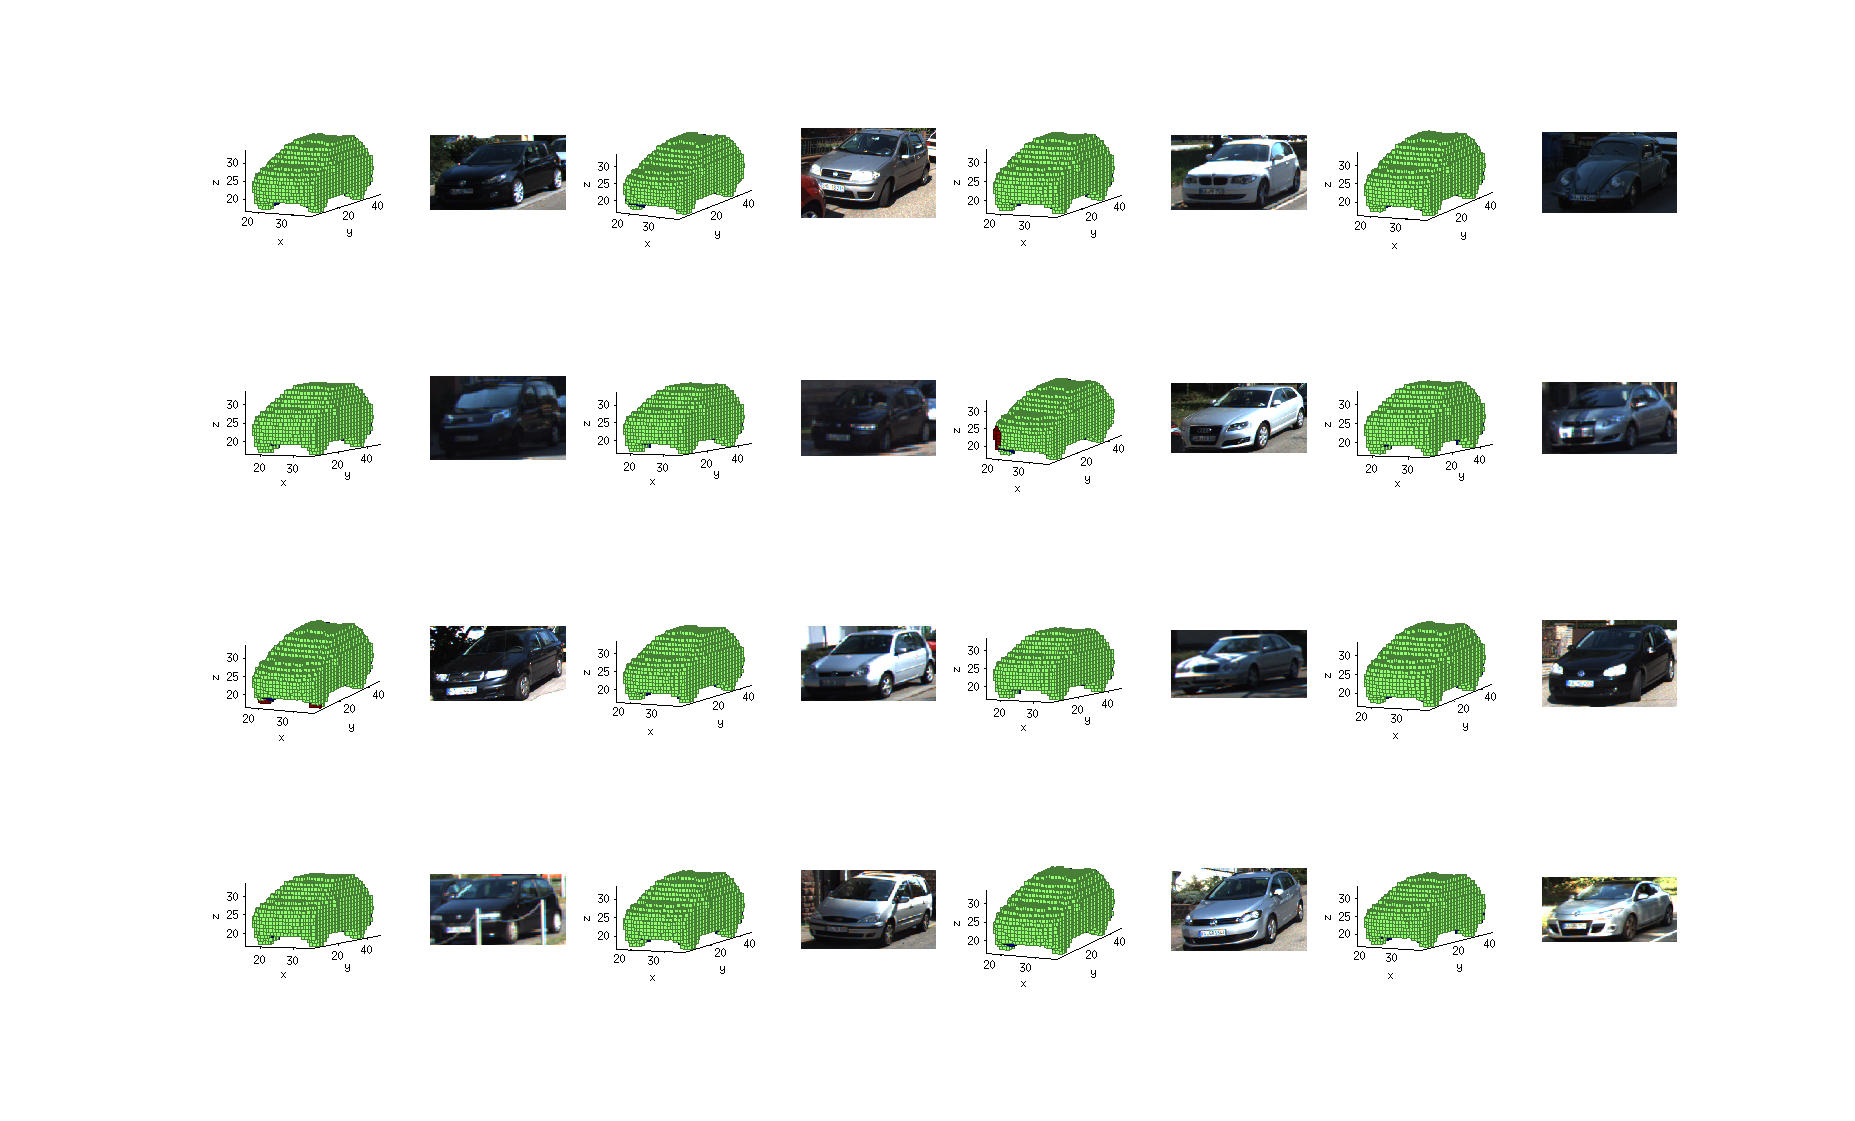
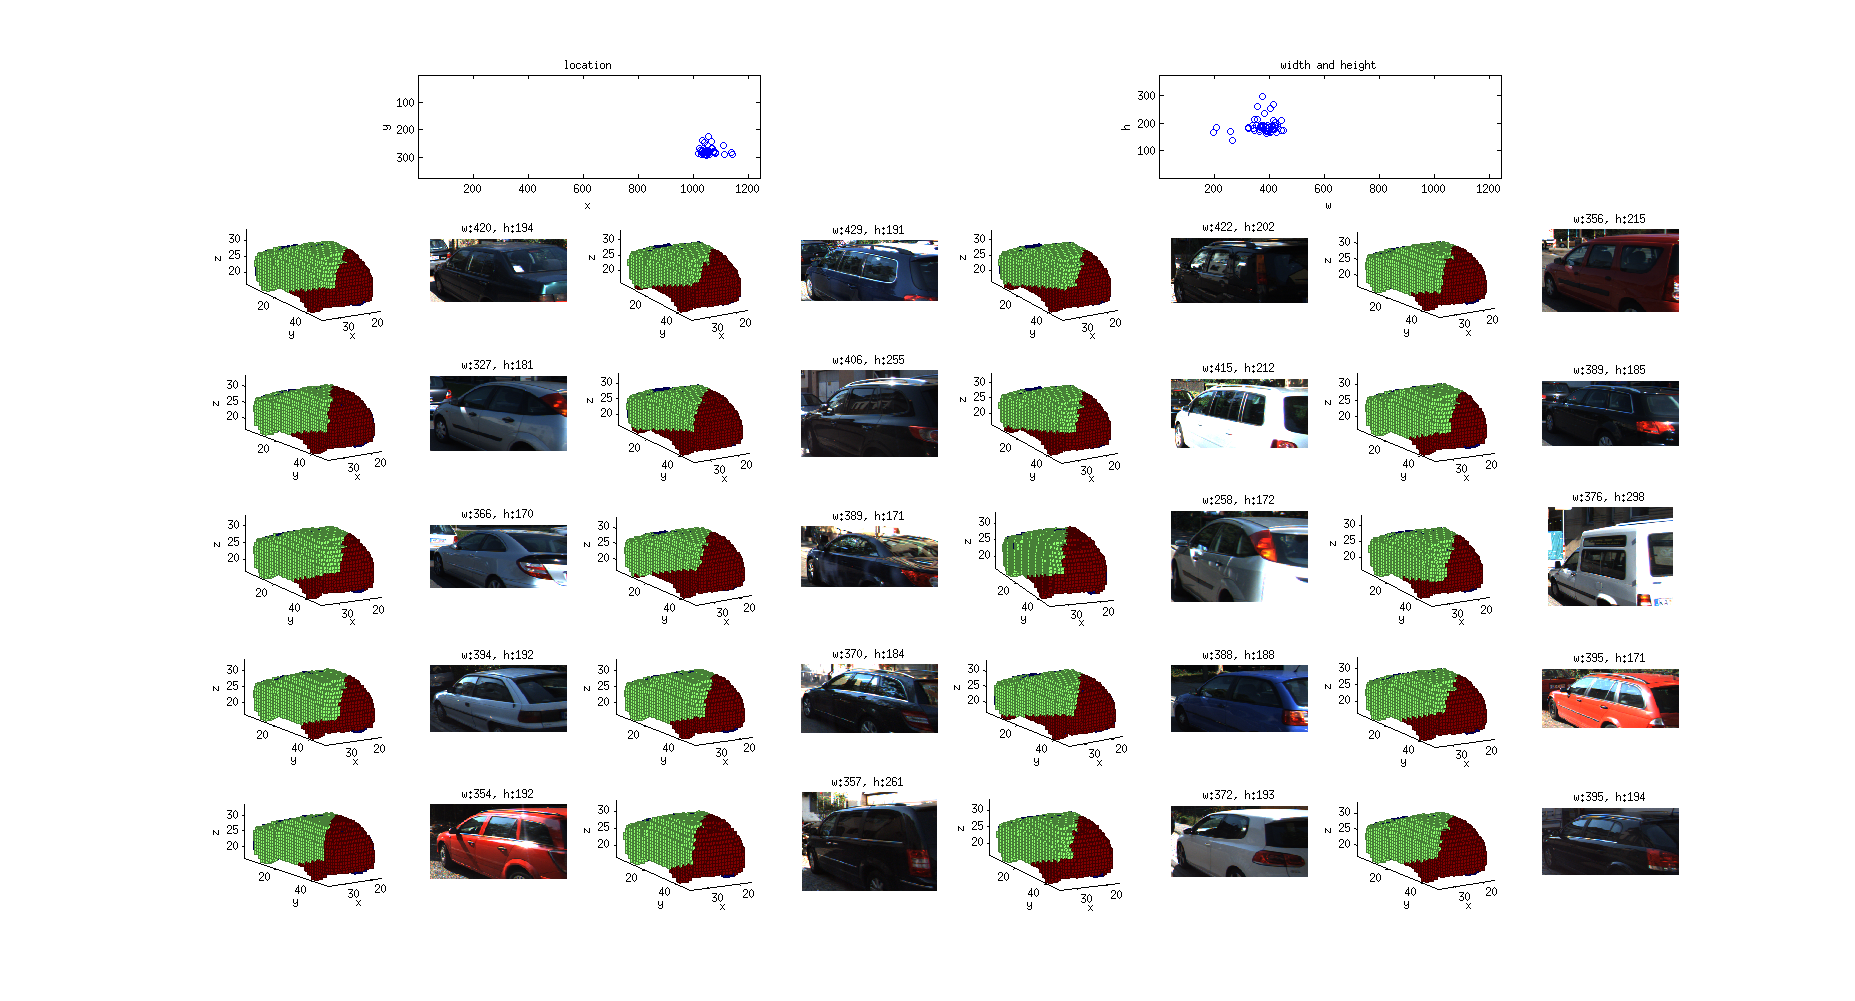
show location width and height for occlusion patterns

diff --git a/KITTI/show_cluster_patterns.m b/KITTI/show_cluster_patterns.m
@@ -29,14 +29,43 @@ end
 N = numel(centers);
 
 figure;
+nplot = 6;
+mplot = 8;
 for i = 1:N
-    ind_plot = 1;
-    % show center
     ind = centers(i);
+
+    bbox = data.bbox(:, idx == ind);
+    % plot of center locations of bounding boxes
+    x = (bbox(1,:) + bbox(3,:)) / 2;
+    y = (bbox(2,:) + bbox(4,:)) / 2;
+
+    h = subplot(nplot, mplot, 1:mplot/2);
+    plot(x, y, 'o');
+    set(h, 'Ydir', 'reverse');
+    axis equal;
+    axis([1 1242 1 375]);
+    xlabel('x');
+    ylabel('y');
+    title('location');
+    
+    % plot of widths and heights of bounding boxes
+    w = bbox(3,:) - bbox(1,:);
+    h = bbox(4,:) - bbox(2,:);
+
+    subplot(nplot, mplot, mplot/2+1:mplot);
+    plot(w, h, 'o');
+    axis equal;
+    axis([1 1242 1 375]);
+    xlabel('w');
+    ylabel('h');
+    title('width and height');    
+    
+    ind_plot = mplot + 1;
+    % show center
     grid = data.grid(:,ind);
     visibility_grid = zeros(size(cad.grid));
     visibility_grid(index) = grid;
-    subplot(4, 8, ind_plot);
+    subplot(nplot, mplot, ind_plot);
     ind_plot = ind_plot + 1;
     draw_cad(cad, visibility_grid);
     view(data.azimuth(ind), data.elevation(ind));
@@ -47,7 +76,7 @@ for i = 1:N
     bbox = data.bbox(:,ind);
     rect = [bbox(1) bbox(2) bbox(3)-bbox(1) bbox(4)-bbox(2)];
     I1 = imcrop(I, rect);
-    subplot(4, 8, ind_plot);
+    subplot(nplot, mplot, ind_plot);
     ind_plot = ind_plot + 1;
     imshow(I1);
     til = sprintf('w:%d, h:%d', size(I1,2), size(I1,1));
@@ -57,12 +86,12 @@ for i = 1:N
     member = find(idx == ind);
     member(member == ind) = [];
     num = numel(member);
-    for j = 1:min(15, num)
+    for j = 1:min((nplot-1)*mplot/2-1, num)
         ind = member(j);
         grid = data.grid(:,ind);
         visibility_grid = zeros(size(cad.grid));
         visibility_grid(index) = grid;
-        subplot(4, 8, ind_plot);
+        subplot(nplot, mplot, ind_plot);
         ind_plot = ind_plot + 1;
         draw_cad(cad, visibility_grid);
         view(data.azimuth(ind), data.elevation(ind));
@@ -73,11 +102,16 @@ for i = 1:N
         bbox = data.bbox(:,ind);
         rect = [bbox(1) bbox(2) bbox(3)-bbox(1) bbox(4)-bbox(2)];
         I1 = imcrop(I, rect);
-        subplot(4, 8, ind_plot);
+        subplot(nplot, mplot, ind_plot);
         ind_plot = ind_plot + 1;
         imshow(I1);
         til = sprintf('w:%d, h:%d', size(I1,2), size(I1,1));
         title(til);        
+    end
+    for j = ind_plot:nplot*mplot
+        subplot(nplot, mplot, j);
+        cla;
+        title('');
     end
     pause;
 end
